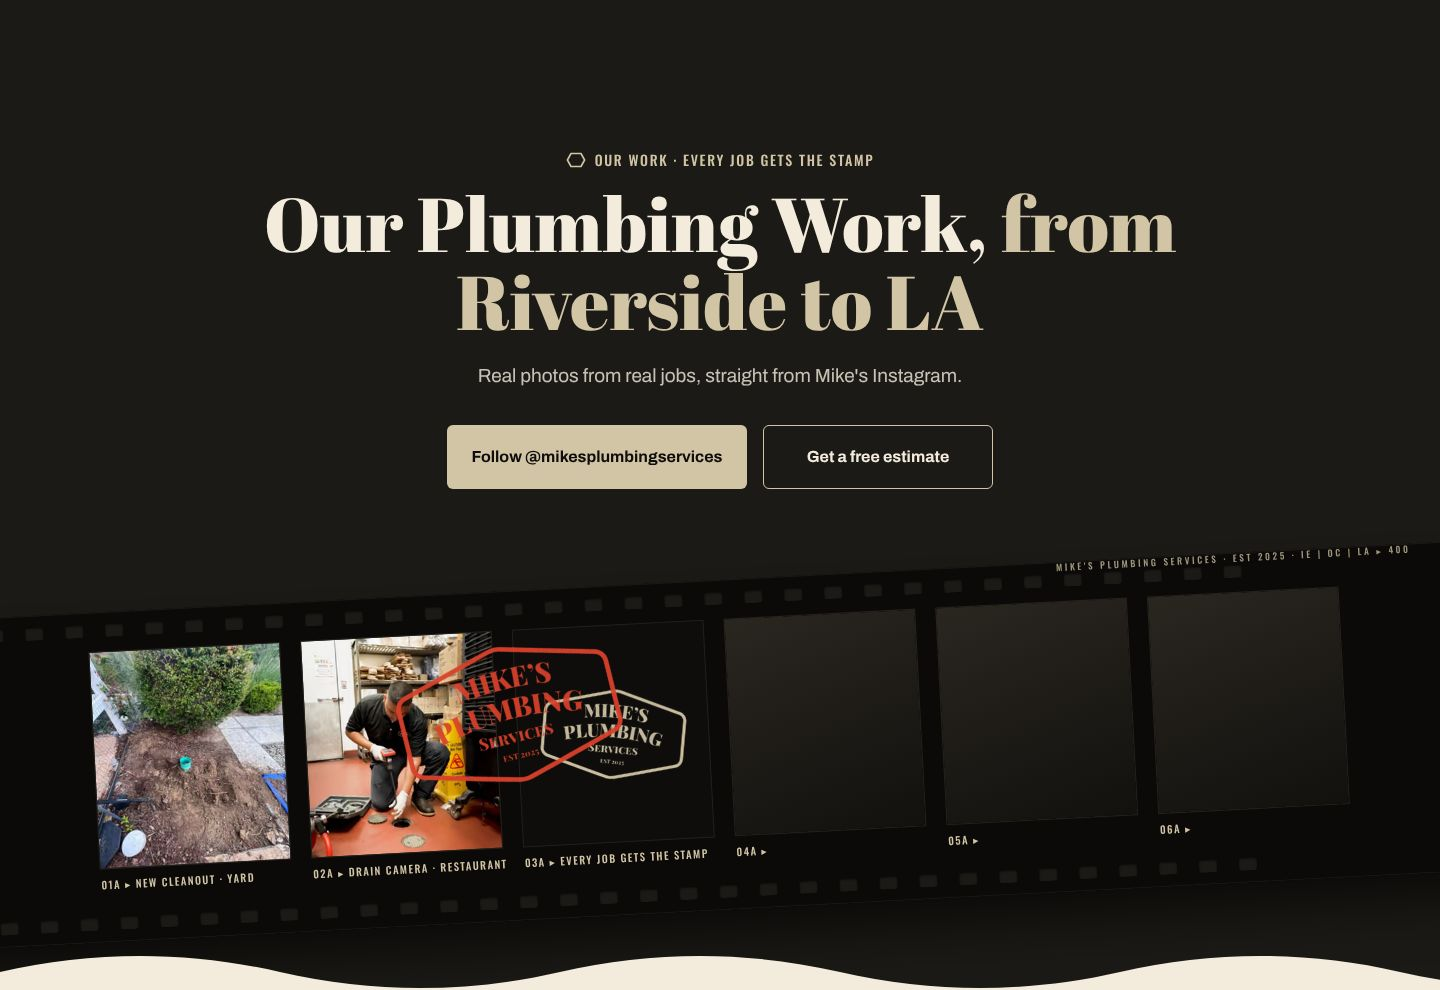
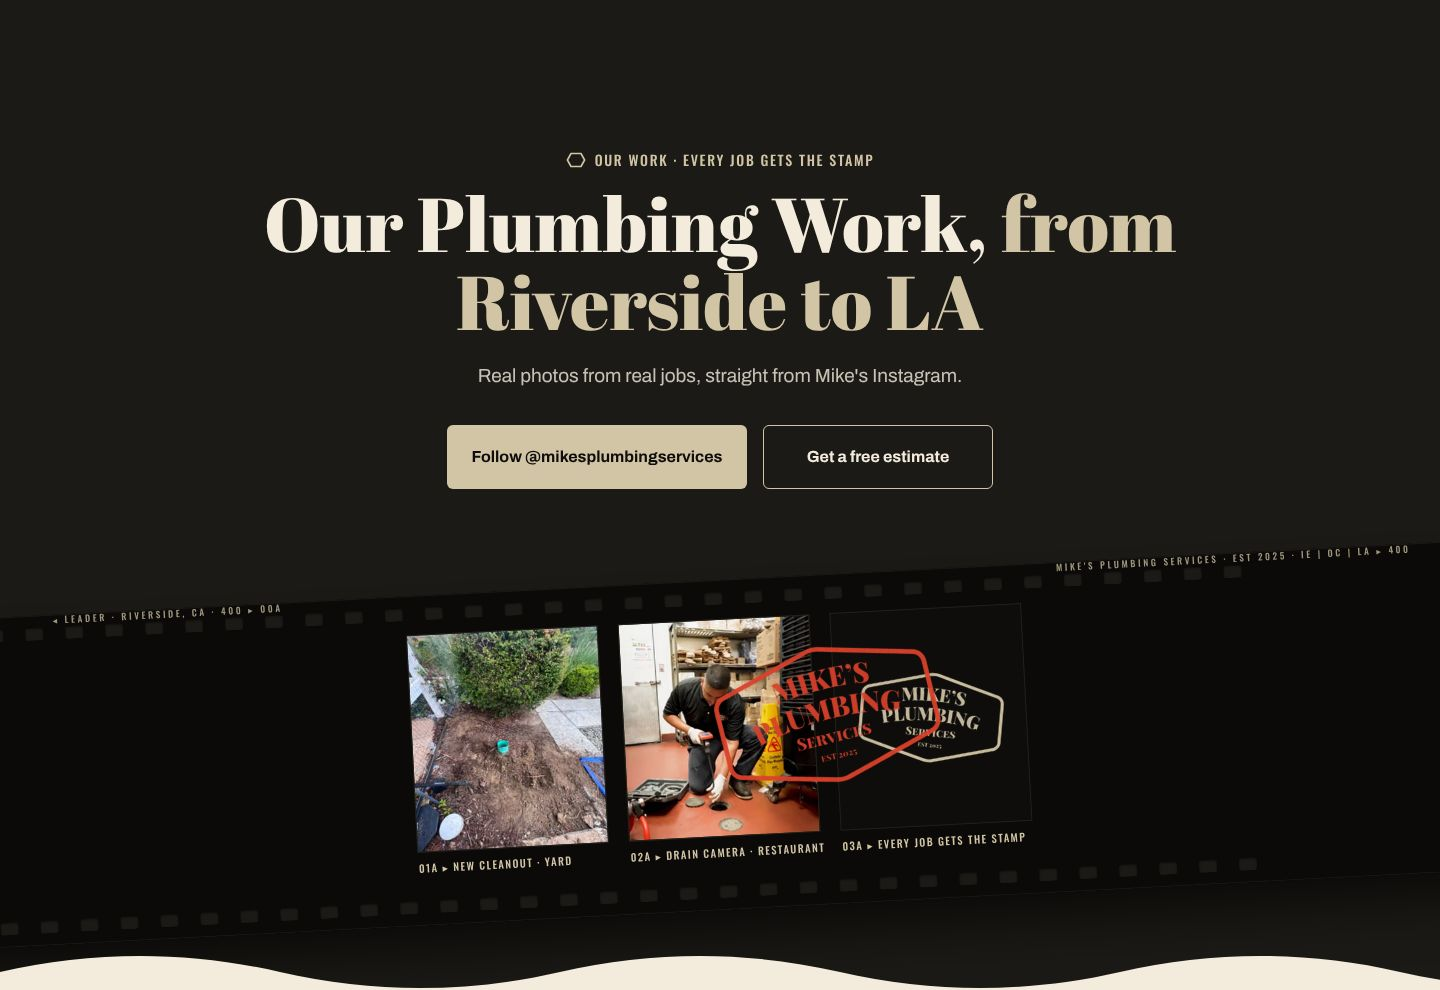
Mike site: home TBT/LCP (lazy flow sampling, late font faces after load, one section per build slice) and Our Work strip as film leader, no empty frames (fix round 2, pages)
- home/flow.ts: the 600 path samples move off the load path (idle chunks once the section nears view, finished on first use); bead interpolates between samples. Valve spin, stop lights, chevrons and water fill unchanged (probe vs previous build).
- kit/scrub.ts: along() coarse-to-fine (48 + refine) instead of 240 samples; geometry only when a stop needs it.
- tokens.css + scripts/late-fonts*.ts + Base.astro: faces no home first viewport paints (Oswald 400/500/700, Archivo 800, italics, Yesteryear) are added after load on home; other pages get them inline in <head> as before.
- motion.ts buildRest: one section per idle pass (three-section batches were 100-150 ms tasks at 4x CPU).
- our-work/OHero: blank frames 04-06 removed; the rest of the strip is film leader with edge print; stamp re-centred.

Lighthouse mobile on / (brotli, first visit, 5 runs): LCP 1821-1967 ms, TBT 66-129 ms, CLS 0.

Claude-Session: https://claude.ai/code/session_013rHJ3WBxBZ2MU7THFTv7FJ

Changed region(s): [[0.0625, 0.5758, 0.9375, 0.9091]]

diff --git a/clients/mikes-plumbing-site/src/components/home/flow.ts b/clients/mikes-plumbing-site/src/components/home/flow.ts
@@ -28,19 +28,26 @@ function flow() {
     const head = svg.querySelector<SVGGElement>('.pw-head');
     const needle = sec.querySelector<HTMLElement>('[data-gauge-needle]');
     const chev = $$<SVGGElement>('.chev', svg);
-    const len = water.getTotalLength();
     // Where along the pipe each stop and chevron sits: nearest of 600 samples to its centre (in the svg's own units).
+    // Round 2 (TBT): the 600 getPointAtLength samples cost ~700 ms at 4x CPU, so they are no longer taken at load. They are
+    // taken in small idle chunks once the section is within ~1.5 screens (IntersectionObserver), and synchronously only if
+    // the scrub needs them before that (a jump straight to the section). render(0) needs none of it.
     const N = 600; const pts: DOMPoint[] = [];
-    for (let i = 0; i <= N; i++) pts.push(water.getPointAtLength((len * i) / N) as DOMPoint);
+    let len = 0; let at: number[] = []; let cat: number[] = []; let gAt = 1; let ready = false;
     const near = (x: number, y: number) => { let b = 0; let d = Infinity; pts.forEach((p, i) => { const e = (p.x - x) ** 2 + (p.y - y) ** 2; if (e < d) { d = e; b = i; } }); return b / N; };
-    const inv = svg.getScreenCTM()?.inverse();
-    const at = stops.map((s) => {
-      const r = s.querySelector('.hx')!.getBoundingClientRect();
-      const p = new DOMPoint(r.left + r.width / 2, r.top + r.height / 2).matrixTransform(inv);
-      return near(p.x, p.y);
-    });
-    const cat = chev.map((c) => near(+c.dataset.x!, +c.dataset.y!));
-    const gAt = needle ? near(+(needle.dataset.x ?? 0), +(needle.dataset.y ?? 0)) : 1;
+    const sample = (upTo: number) => { if (!len) len = water.getTotalLength(); for (let i = pts.length; i <= Math.min(N, upTo); i++) pts.push(water.getPointAtLength((len * i) / N) as DOMPoint); };
+    const finish = () => {
+      if (ready) return; sample(N);
+      const inv = svg.getScreenCTM()?.inverse();
+      at = stops.map((s) => { const r = s.querySelector('.hx')!.getBoundingClientRect(); const p = new DOMPoint(r.left + r.width / 2, r.top + r.height / 2).matrixTransform(inv); return near(p.x, p.y); });
+      cat = chev.map((c) => near(+c.dataset.x!, +c.dataset.y!));
+      gAt = needle ? near(+(needle.dataset.x ?? 0), +(needle.dataset.y ?? 0)) : 1;
+      ready = true; (window as any).__flowReady = performance.now();
+    };
+    const idle = (fn: () => void) => ('requestIdleCallback' in window ? (window as any).requestIdleCallback(fn, { timeout: 400 }) : window.setTimeout(fn, 16));
+    const chunk = () => { if (ready) return; if (pts.length > N) { finish(); return; } sample(pts.length + 40); idle(chunk); };
+    const io = new IntersectionObserver((es) => { if (es.some((e) => e.isIntersecting)) { io.disconnect(); idle(chunk); } }, { rootMargin: '150% 0px 150% 0px' });
+    io.observe(svg);
     const lit = stops.map(() => false);
     // B14: the valve (desktop) or the stop-02 nut (phone) spins once per forward pass of stop 02.
     const wheel = sec.querySelector<SVGSVGElement>('.wheel');
@@ -58,21 +65,24 @@ function flow() {
     const setNeedle = needle ? gsap.quickSetter(needle, 'rotation', 'deg') as (v: number) => void : null;
     const render = (p: number) => {
       drawTo(water, p);
+      if (p > 0 && !ready) finish();
       if (head) {
-        const q = water.getPointAtLength(len * p); // geometry, not layout
+        // interpolated between the samples, not a new geometry call per frame
+        const f = Math.min(N, Math.max(0, p * N)); const i0 = Math.floor(f); const i1 = Math.min(N, i0 + 1); const k = f - i0;
+        const q = ready ? { x: pts[i0].x + (pts[i1].x - pts[i0].x) * k, y: pts[i0].y + (pts[i1].y - pts[i0].y) * k } : { x: 0, y: 0 };
         head.setAttribute('transform', `translate(${q.x.toFixed(1)} ${q.y.toFixed(1)})`);
         head.style.opacity = p > 0.002 && p < 0.995 ? '1' : '0';
       }
-      stops.forEach((s, i) => { const on = p >= at[i] - 0.004; if (on !== lit[i]) { lit[i] = on; s.classList.toggle('is-lit', on); if (on && i === 1 && p > prevP) spin(); } });
+      stops.forEach((s, i) => { const on = ready && p >= at[i] - 0.004; if (on !== lit[i]) { lit[i] = on; s.classList.toggle('is-lit', on); if (on && i === 1 && p > prevP) spin(); } });
       prevP = p;
-      chev.forEach((c, i) => c.classList.toggle('is-on', p >= cat[i]));
+      chev.forEach((c, i) => c.classList.toggle('is-on', ready && p >= cat[i]));
       setNeedle?.(-160 + 120 * Math.min(1, p / Math.max(gAt, 0.01)));
     };
     sec.classList.add('is-scrub');
     const st = { p: 0 };
     render(0);
     const tw = gsap.to(st, { p: 1, ease: 'none', onUpdate: () => render(st.p), scrollTrigger: { trigger: svg, start, end, scrub: 0.8 } });
-    return () => { spinning?.kill(); gsap.set(spinEls, { clearProps: 'transform' }); tw.scrollTrigger?.kill(); tw.kill(); sec.classList.remove('is-scrub'); render(1); stops.forEach((s) => s.classList.add('is-lit')); if (needle) gsap.set(needle, { clearProps: 'transform' }); };
+    return () => { io.disconnect(); finish(); spinning?.kill(); gsap.set(spinEls, { clearProps: 'transform' }); tw.scrollTrigger?.kill(); tw.kill(); sec.classList.remove('is-scrub'); render(1); stops.forEach((s) => s.classList.add('is-lit')); if (needle) gsap.set(needle, { clearProps: 'transform' }); };
   };
   mm.add('(min-width: 1024px)', () => setup('.pw-d', 'top 90%', 'bottom 68%'));
   mm.add('(max-width: 1023px)', () => setup('.pw-m', 'top 80%', 'bottom 70%'));

diff --git a/clients/mikes-plumbing-site/src/styles/tokens.css b/clients/mikes-plumbing-site/src/styles/tokens.css
@@ -1,18 +1,13 @@
 /* Mike's Plumbing Services design tokens. Source: handoff/BUILD-BRIEF.md + plan/DESIGN-SYSTEM-AND-HOME-SHEET.md (VFACT Figma).
    Colours from his flyer and logo only. Red = live dots only. Never tan text on paper/bone, never paper text on tan. */
+/* Faces every page may paint first. The late faces (lighter/heavier weights, italics, the script face) live in
+   src/scripts/late-fonts.ts: Base.astro writes them into <head>, or on home adds them after load. */
 @font-face { font-family: 'Abril Fatface'; font-style: normal; font-weight: 400; font-display: swap; src: url('/fonts/abril-fatface-latin-400-normal.woff2') format('woff2'); }
-@font-face { font-family: 'Oswald'; font-style: normal; font-weight: 400; font-display: swap; src: url('/fonts/oswald-latin-400-normal.woff2') format('woff2'); }
-@font-face { font-family: 'Oswald'; font-style: normal; font-weight: 500; font-display: swap; src: url('/fonts/oswald-latin-500-normal.woff2') format('woff2'); }
 @font-face { font-family: 'Oswald'; font-style: normal; font-weight: 600; font-display: swap; src: url('/fonts/oswald-latin-600-normal.woff2') format('woff2'); }
-@font-face { font-family: 'Oswald'; font-style: normal; font-weight: 700; font-display: swap; src: url('/fonts/oswald-latin-700-normal.woff2') format('woff2'); }
 @font-face { font-family: 'Archivo'; font-style: normal; font-weight: 400; font-display: swap; src: url('/fonts/archivo-latin-400-normal.woff2') format('woff2'); }
 @font-face { font-family: 'Archivo'; font-style: normal; font-weight: 500; font-display: swap; src: url('/fonts/archivo-latin-500-normal.woff2') format('woff2'); }
 @font-face { font-family: 'Archivo'; font-style: normal; font-weight: 600; font-display: swap; src: url('/fonts/archivo-latin-600-normal.woff2') format('woff2'); }
 @font-face { font-family: 'Archivo'; font-style: normal; font-weight: 700; font-display: swap; src: url('/fonts/archivo-latin-700-normal.woff2') format('woff2'); }
-@font-face { font-family: 'Archivo'; font-style: normal; font-weight: 800; font-display: swap; src: url('/fonts/archivo-latin-800-normal.woff2') format('woff2'); }
-@font-face { font-family: 'Archivo'; font-style: italic; font-weight: 400 500; font-display: swap; src: url('/fonts/archivo-latin-400-italic.woff2') format('woff2'); }
-@font-face { font-family: 'Archivo'; font-style: italic; font-weight: 600 800; font-display: swap; src: url('/fonts/archivo-latin-600-italic.woff2') format('woff2'); }
-@font-face { font-family: 'Yesteryear'; font-style: normal; font-weight: 400; font-display: swap; src: url('/fonts/yesteryear-latin-400-normal.woff2') format('woff2'); }
 /* Metric-ish fallbacks so the swap does not shift layout (CLS). */
 @font-face { font-family: 'Abril Fallback'; src: local('Georgia'); size-adjust: 108%; ascent-override: 92%; descent-override: 24%; }
 @font-face { font-family: 'Archivo Fallback'; src: local('Arial'); size-adjust: 100%; ascent-override: 88%; descent-override: 21%; }

diff --git a/clients/mikes-plumbing-site/src/components/kit/scrub.ts b/clients/mikes-plumbing-site/src/components/kit/scrub.ts
@@ -39,11 +39,11 @@ export function drawTo(path: SVGGeometryElement, p: number) { path.style.strokeD
 /** Distance (0-1) along a path closest to a screen point. Build-time only (layout read). */
 function along(path: SVGGeometryElement, cx: number, cy: number) {
   const m = path.getScreenCTM(); if (!m) return NaN;
+  // Coarse to fine (round 2, TBT): 48 samples, then 24 around the best one (72 geometry calls instead of 240, finer result).
   const L = path.getTotalLength(); let best = Infinity, at = 0;
-  for (let k = 0; k <= 240; k++) {
-    const q = path.getPointAtLength((L * k) / 240).matrixTransform(m);
-    const d = (q.x - cx) ** 2 + (q.y - cy) ** 2; if (d < best) { best = d; at = k / 240; }
-  }
+  const test = (t: number) => { const q = path.getPointAtLength(L * t).matrixTransform(m); const d = (q.x - cx) ** 2 + (q.y - cy) ** 2; if (d < best) { best = d; at = t; } };
+  for (let k = 0; k <= 48; k++) test(k / 48);
+  const c = at; for (let k = -12; k <= 12; k++) if (k) test(Math.min(1, Math.max(0, c + k / (48 * 12))));
   return at;
 }
 
@@ -66,9 +66,11 @@ function build(root: HTMLElement, phone: boolean) {
   const p0 = paths.find(vis); const f0 = fills[0];
   const r0 = f0?.getBoundingClientRect(); const ax0 = f0 ? axisOf(f0) : 'x';
   const tr = track.getBoundingClientRect();
+  const given = (s: HTMLElement) => !Number.isNaN(num((phone && s.dataset.atM) || s.dataset.at, NaN)) && !s.dataset.atEl;
+  const needGeo = stops.some((s) => s.dataset.atEl); // geo only feeds the piecewise water; a stop with its own data-at skips the search
   const marks = stops.map((s, i) => {
     const r = s.getBoundingClientRect(); const cx = r.left + r.width / 2, cy = r.top + r.height / 2;
-    let geo = p0 ? along(p0, cx, cy) : r0 && r0.width ? (ax0 === 'x' ? (cx - r0.left) / r0.width : (cy - r0.top) / r0.height) : NaN;
+    let geo = !needGeo && given(s) ? 0 : p0 ? along(p0, cx, cy) : r0 && r0.width ? (ax0 === 'x' ? (cx - r0.left) / r0.width : (cy - r0.top) / r0.height) : NaN;
     if (Number.isNaN(geo)) geo = (i + 1) / (stops.length + 1);
     let at = num((phone && s.dataset.atM) || s.dataset.at, NaN);
     const el = s.dataset.atEl ? document.querySelector(s.dataset.atEl) : null;

diff --git a/clients/mikes-plumbing-site/src/scripts/late-fonts.ts b/clients/mikes-plumbing-site/src/scripts/late-fonts.ts
@@ -1,0 +1,14 @@
+// Font faces that no first viewport on the home page paints (measured at 390 and 1440, fix round 2 TBT/LCP): on home they are
+// registered only after the window has loaded, so they are not fetched before the first paint and do not count against
+// the LCP. Every other page gets the same faces as plain @font-face rules in <head> (Base.astro), exactly as before.
+export type Late = { family: string; style: 'normal' | 'italic'; weight: string; file: string };
+export const LATE: Late[] = [
+  { family: 'Oswald', style: 'normal', weight: '400', file: 'oswald-latin-400-normal' },
+  { family: 'Oswald', style: 'normal', weight: '500', file: 'oswald-latin-500-normal' },
+  { family: 'Oswald', style: 'normal', weight: '700', file: 'oswald-latin-700-normal' },
+  { family: 'Archivo', style: 'normal', weight: '800', file: 'archivo-latin-800-normal' },
+  { family: 'Archivo', style: 'italic', weight: '400 500', file: 'archivo-latin-400-italic' },
+  { family: 'Archivo', style: 'italic', weight: '600 800', file: 'archivo-latin-600-italic' },
+  { family: 'Yesteryear', style: 'normal', weight: '400', file: 'yesteryear-latin-400-normal' },
+];
+export const lateCss = () => LATE.map((f) => `@font-face{font-family:'${f.family}';font-style:${f.style};font-weight:${f.weight};font-display:swap;src:url('/fonts/${f.file}.woff2') format('woff2')}`).join('');

diff --git a/clients/mikes-plumbing-site/src/scripts/late-fonts-load.ts b/clients/mikes-plumbing-site/src/scripts/late-fonts-load.ts
@@ -1,0 +1,15 @@
+// Home only (Base.astro, html[data-late-fonts]): add the late faces once the window has loaded and the main thread is idle,
+// then re-measure the scroll triggers once they are in (text below the fold may change width with the swap).
+import { LATE } from './late-fonts';
+import { requestRefresh } from '../components/kit/settle';
+
+const html = document.documentElement;
+if (html.hasAttribute('data-late-fonts') && document.fonts && 'FontFace' in window) {
+  const add = () => {
+    const faces = LATE.map((f) => new FontFace(f.family, `url('/fonts/${f.file}.woff2') format('woff2')`, { style: f.style, weight: f.weight, display: 'swap' }));
+    faces.forEach((f) => document.fonts.add(f));
+    Promise.allSettled(faces.map((f) => f.load())).then(() => requestRefresh());
+  };
+  const idle = () => ('requestIdleCallback' in window ? requestIdleCallback(add, { timeout: 600 }) : setTimeout(add, 50));
+  if (document.readyState === 'complete') idle(); else window.addEventListener('load', idle, { once: true });
+}

diff --git a/clients/mikes-plumbing-site/src/scripts/motion.ts b/clients/mikes-plumbing-site/src/scripts/motion.ts
@@ -355,7 +355,8 @@ function buildRest(done: () => void) {
   const step = (dl?: IdleDeadline) => {
     const t0 = performance.now();
     while (secs.length && (performance.now() - t0 < 12 || (dl && dl.timeRemaining() > 8))) {
-      const batch = secs.splice(0, 3).map(planSection); // read phase for a few sections, then their writes
+      // One section per pass (was three): a three-section batch ran 100-150 ms at 4x CPU, one long task each (fix round 2, TBT).
+      const batch = secs.splice(0, 1).map(planSection); // read phase, then its writes
       batch.forEach(buildSection);
     }
     if (secs.length) idle(step); else done();
